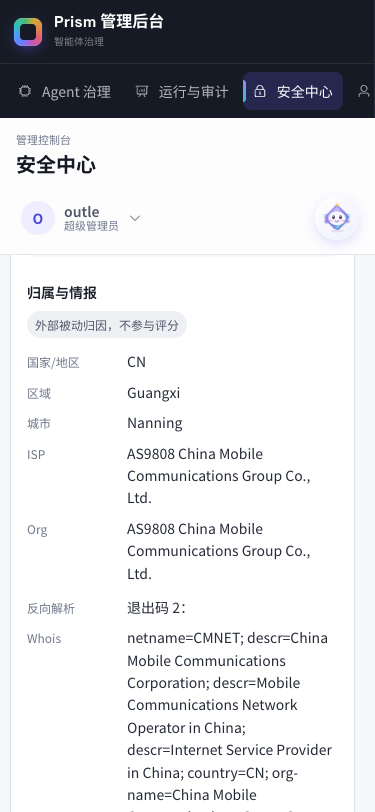
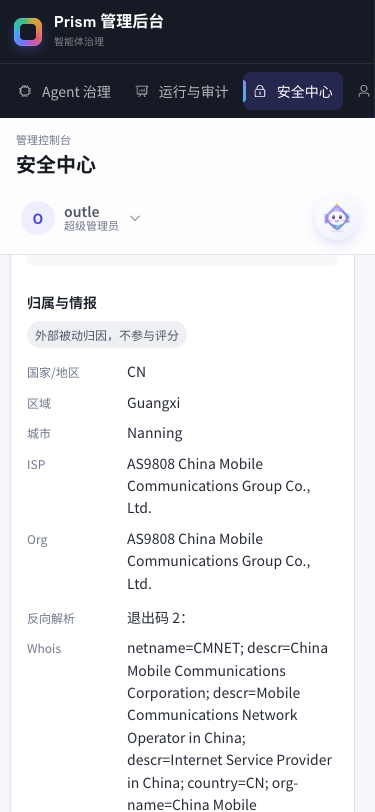
docs: decoy layer full delivery with live acceptance evidence (v4.0.69)

diff --git a/docs/主动欺骗与网络隔离设计20261005/证据与生产实测_v4.0.69.md b/docs/主动欺骗与网络隔离设计20261005/证据与生产实测_v4.0.69.md
@@ -1,0 +1,64 @@
+# 诱捕层完整交付（v4.0.69）与生产实测
+
+生产版本：**v4.0.69 / `cc708396e4c2309702ebf5ae8f15cfda91200870`**
+
+## 1. 生产线上面貌（真实访问 www.lijiadong.cn）
+
+```
+healthz / readyz         → version=4.0.69
+安全中心分区             → 安全概览 / 事件记录 / 防御策略 / 溯源与响应 / 诱捕层（5 个）
+真实点击验收             → 10 / 10 通过（含新增的诱捕层步骤）
+诱捕层状态接口           → available=true verified=true container_running=true
+                            hit_total=0 source_total=0 redirect_total=0
+                            chain_order_ok=true chain=PRISM-DECOY-IN port=8443
+                            成员={4:[], 6:[]} errors=[]
+引流接口                 → available=true applied=0 skipped=0 chain_ok=true errors=[]
+匿名访问                 → GET /decoy 401；POST /decoy/apply 401（未带令牌）
+审查员 18878489000       → 安全中心整体 403
+诱捕层容器               → Up (healthy)，127.0.0.1:8443->8443/tcp，公网直连 8443 连接被拒
+```
+
+`hit_total=0` 是真实值：诱捕层刚上线，尚无来源在 `prism-decoy-*` 里被引流；
+面板不会伪造任何数字（无回执时清空并显示错误条）。
+
+## 2. 面板能看到什么
+
+| 区块 | 内容 |
+| --- | --- |
+| 状态卡 | 诱捕容器（运行中/未运行）、诱饵命中总次数与来源数、已引流来源数与集合/端口、引流链序（正确/异常） |
+| 引流入口 | 「引流原因」输入 + 「把命中来源加入引流」；原因为空时不发请求；结果如实回报"已引流 N 个 / 跳过 M 个" |
+| 幽灵访客表 | 来源 IP、命中次数、不同路径数、工具指纹（UA）、最近命中时间，每行「溯源」一键跳到溯源分区并自动查询 |
+| 明细折叠 | IPv4 / IPv6 已引流来源明细 |
+| 保护来源说明 | 明示管理员连接、本机地址、白名单、已建立公网对端一律跳过；租约由内核 TTL 自动到期 |
+| 失败态 | `available !== true` 时清空数据 + 错误条 + 重试按钮，不显示任何默认数值 |
+
+## 3. 接口与权限
+
+| 接口 | 权限 | 说明 |
+| --- | --- | --- |
+| `GET /api/admin/security-center/decoy` | `require_super_admin` | 只读：容器状态、命中汇总、引流集合、链序 |
+| `POST /api/admin/security-center/decoy/apply` | `require_super_admin` | 引流；只接收 `reason`，目标由宿主机判定 |
+
+权限矩阵基线已更新并逐项复核：路由 349 → **351**、认证 335 → **337**、守卫 268 → **270**。
+
+## 4. 测试
+
+| 范围 | 结果 |
+| --- | --- |
+| 后端 `test_security_trace_service`（新增 4 项：状态归一化 / 无回执不伪造 / 引流只转发原因 / 空原因拒绝） | 通过 |
+| 后端 `test_complete_permission_matrix`（含 2 条新路由断言） | 通过 |
+| 后端 `tests/unit/` 全量 | **3771 passed** |
+| 前端 `AdminSecurityCenter.test`（新增 3 项：渲染幽灵访客 / 不可用不显示数值 / 引流原因校验） | 33 passed |
+| 前端全量 | **139 文件 / 1776 passed** |
+| ESLint / vue-tsc / 生产构建 | 0 problems / 0 诊断 / 构建成功 |
+| 真页面点击验收（Playwright + 本机 Chrome，打生产） | **10 / 10** |
+
+截图与结构化证据：`证据/真实点击-诱捕层.png`、`证据/真实点击验收.json`（含诱捕接口调用与每步 detail）。
+
+## 5. 仍然存在的边界
+
+1. **没有观察到真实攻击者被引流**：DNAT 只在 `nat` 表的 `PREROUTING` 生效，回环流量不经过该链，
+   宿主无法伪造集合成员源地址。机制已逐项校验（链、规则、ipset、route_localnet、链序、诱捕层本体与证书），
+   端到端等真实来源被规则引擎判定后才会有生产证据。
+2. 诱捕容器 `access_log off`，端到端观察当前依赖内核集合与执行器状态。
+3. P4 出网分离、P5 表面迷惑、P6 第二个 EIP 未做。
